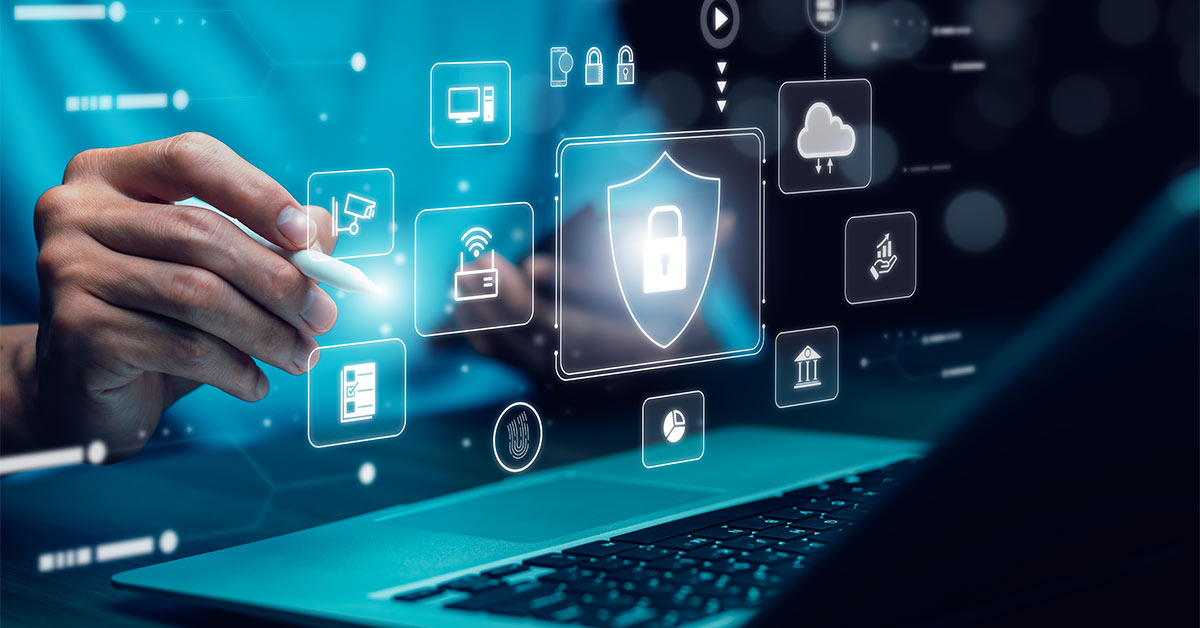
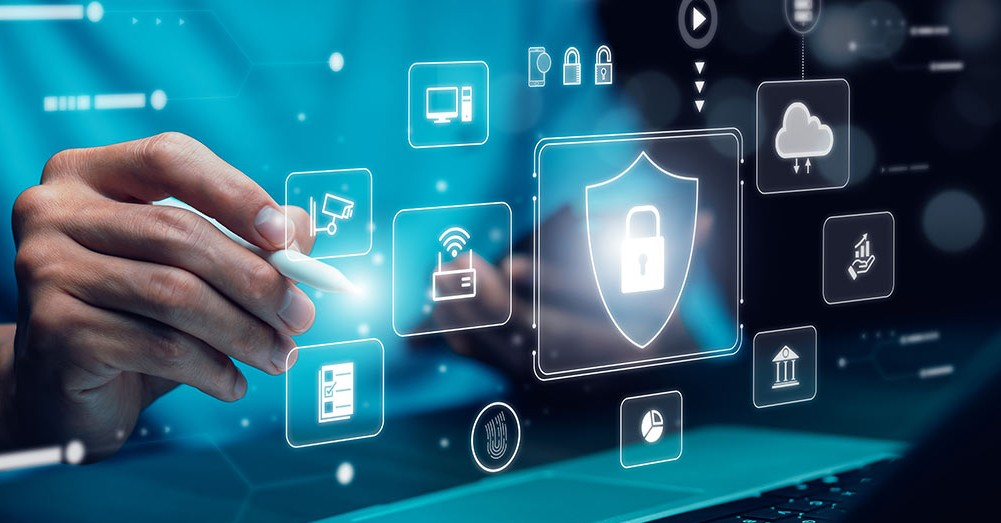
feat: implement Hero section and Contact page with email integration functionality

diff --git a/src/pages/Contact.tsx b/src/pages/Contact.tsx
@@ -3,6 +3,7 @@ import { motion } from "framer-motion";
 import { Navbar } from "@/components/Navbar";
 import { Footer } from "@/components/Footer";
 import { Mail, Phone, MapPin, CheckCircle2, Loader2 } from "lucide-react";
+import { CONTACT_EMAIL_ADDRESS, createContactMailtoUrl } from "@/lib/contact-email";
 
 const services = [
   "Digital Solutions",
@@ -45,38 +46,13 @@ export default function Contact() {
       return;
     }
     setLoading(true);
-    try {
-      const response = await fetch("https://api.web3forms.com/submit", {
-        method: "POST",
-        headers: { "Content-Type": "application/json" },
-        body: JSON.stringify({
-          access_key: "YOUR_WEB3FORMS_ACCESS_KEY",
-          subject: `[NexioGBL] New message from ${form.name}`,
-          from_name: form.name,
-          replyto: form.email,
-          email: form.email,
-          phone: form.phone || "Not provided",
-          country: form.country,
-          service: form.service,
-          message: form.message,
-        }),
-      });
-      const data = await response.json();
-      if (data.success) {
-        setSubmitted(true);
-      } else {
-        setErrors({ form: "Something went wrong. Please try again." });
-      }
-    } catch {
-      setErrors({ form: "Network error. Please try again later." });
-    } finally {
-      setLoading(false);
-    }
+    window.location.href = createContactMailtoUrl(form);
+    setSubmitted(true);
+    setLoading(false);
   };
 
   const inputClass = (field: string) =>
-    `w-full px-4 py-3 rounded-xl border text-sm bg-gray-50 dark:bg-gray-900 focus:outline-none focus:ring-2 focus:ring-primary/40 transition-all ${
-      errors[field] ? "border-red-400" : "border-gray-200 dark:border-gray-800"
+    `w-full px-4 py-3 rounded-xl border text-sm bg-gray-50 dark:bg-gray-900 focus:outline-none focus:ring-2 focus:ring-primary/40 transition-all ${errors[field] ? "border-red-400" : "border-gray-200 dark:border-gray-800"
     }`;
 
   return (
@@ -97,7 +73,7 @@ export default function Contact() {
                 Contact <span className="text-primary">Us</span>
               </h1>
               <p className="text-xl text-muted-foreground leading-relaxed">
-                Ready to transform your business? Let's discuss how we can help you 
+                Ready to transform your business? Let's discuss how we can help you
                 achieve your technology goals.
               </p>
             </motion.div>
@@ -118,11 +94,11 @@ export default function Contact() {
                 <div>
                   <h2 className="text-2xl font-bold mb-6">Get in Touch</h2>
                   <p className="text-muted-foreground leading-relaxed">
-                    Whether you have a project in mind or just want to explore possibilities, 
+                    Whether you have a project in mind or just want to explore possibilities,
                     our team is here to help.
                   </p>
                   <div className="mt-4 flex items-center gap-2.5 bg-primary/10 border border-primary/20 text-primary rounded-xl px-4 py-3 text-sm font-medium">
-                    <svg xmlns="http://www.w3.org/2000/svg" width="18" height="18" viewBox="0 0 24 24" fill="none" stroke="currentColor" strokeWidth="2" strokeLinecap="round" strokeLinejoin="round" className="flex-shrink-0"><circle cx="12" cy="12" r="10"/><polyline points="12 6 12 12 16 14"/></svg>
+                    <svg xmlns="http://www.w3.org/2000/svg" width="18" height="18" viewBox="0 0 24 24" fill="none" stroke="currentColor" strokeWidth="2" strokeLinecap="round" strokeLinejoin="round" className="flex-shrink-0"><circle cx="12" cy="12" r="10" /><polyline points="12 6 12 12 16 14" /></svg>
                     <span>We typically respond within <span className="font-bold">24 hours</span></span>
                   </div>
                 </div>
@@ -133,10 +109,16 @@ export default function Contact() {
                       <Mail size={18} className="text-primary" />
                     </div>
                     <div>
-                      <p className="font-medium text-sm mb-0.5">Email</p>
-                      <p className="text-muted-foreground text-sm">info@nexiogbl.com</p>
+                       <p className="font-medium text-sm mb-0.5">Email</p>
+                       <a
+                         href={`mailto:${CONTACT_EMAIL_ADDRESS}`}
+                         className="text-muted-foreground text-sm hover:text-primary transition-colors"
+                       >
+                         {CONTACT_EMAIL_ADDRESS}
+                       </a>
                     </div>
                   </div>
+
 
                   <div className="flex items-start gap-4">
                     <div className="w-10 h-10 rounded-xl bg-primary/10 flex items-center justify-center flex-shrink-0">
@@ -144,20 +126,12 @@ export default function Contact() {
                     </div>
                     <div>
                       <p className="font-medium text-sm mb-0.5">Phone</p>
-                      <p className="text-muted-foreground text-sm">+94 77 123 4567</p>
+                      <p className="text-muted-foreground text-sm">+94 71 390 0047 / +94 71 493 9193</p>
                     </div>
                   </div>
 
-                  <div className="flex items-start gap-4">
-                    <div className="w-10 h-10 rounded-xl bg-primary/10 flex items-center justify-center flex-shrink-0">
-                      <MapPin size={18} className="text-primary" />
-                    </div>
-                    <div>
-                      <p className="font-medium text-sm mb-0.5">Location</p>
-                      <p className="text-muted-foreground text-sm">Colombo, Sri Lanka</p>
-                      <p className="text-muted-foreground text-sm">Serving clients globally</p>
-                    </div>
-                  </div>
+
+
                 </div>
               </motion.div>
 
@@ -174,9 +148,9 @@ export default function Contact() {
                       <div className="w-16 h-16 rounded-full bg-green-50 dark:bg-green-500/10 flex items-center justify-center mb-5">
                         <CheckCircle2 size={32} className="text-green-500" strokeWidth={1.75} />
                       </div>
-                      <h3 className="text-2xl font-bold mb-3">Message Sent!</h3>
+                      <h3 className="text-2xl font-bold mb-3">Email Draft Ready</h3>
                       <p className="text-muted-foreground text-sm leading-relaxed max-w-sm">
-                        Thank you for reaching out. Our team will be in touch within one business day.
+                        Your email app is opening with the message addressed to {CONTACT_EMAIL_ADDRESS}. Send it to reach our team.
                       </p>
                       <button
                         onClick={() => {
@@ -195,7 +169,7 @@ export default function Contact() {
                         Tell us about your project.
                       </p>
                       <div className="flex items-center gap-2 bg-primary/10 border border-primary/20 text-primary rounded-xl px-4 py-2.5 mb-7 text-sm font-medium">
-                        <svg xmlns="http://www.w3.org/2000/svg" width="16" height="16" viewBox="0 0 24 24" fill="none" stroke="currentColor" strokeWidth="2" strokeLinecap="round" strokeLinejoin="round" className="flex-shrink-0"><circle cx="12" cy="12" r="10"/><polyline points="12 6 12 12 16 14"/></svg>
+                        <svg xmlns="http://www.w3.org/2000/svg" width="16" height="16" viewBox="0 0 24 24" fill="none" stroke="currentColor" strokeWidth="2" strokeLinecap="round" strokeLinejoin="round" className="flex-shrink-0"><circle cx="12" cy="12" r="10" /><polyline points="12 6 12 12 16 14" /></svg>
                         We'll get back to you within <span className="font-bold">24 hours</span>
                       </div>
 

diff --git a/src/components/ContactForm.tsx b/src/components/ContactForm.tsx
@@ -1,6 +1,7 @@
 import { useState } from "react";
 import { motion, AnimatePresence } from "framer-motion";
 import { X, CheckCircle2, Loader2 } from "lucide-react";
+import { CONTACT_EMAIL_ADDRESS, createContactMailtoUrl } from "@/lib/contact-email";
 
 const services = [
   "Digital Solutions",
@@ -48,31 +49,8 @@ export function ContactForm({ open, onClose }: ContactFormProps) {
       return;
     }
     setLoading(true);
-    try {
-      const response = await fetch("https://api.web3forms.com/submit", {
-        method: "POST",
-        headers: { "Content-Type": "application/json" },
-        body: JSON.stringify({
-          access_key: "YOUR_WEB3FORMS_ACCESS_KEY",
-          subject: `[NexioGBL] New message from ${form.name}`,
-          from_name: form.name,
-          replyto: form.email,
-          email: form.email,
-          phone: form.phone || "Not provided",
-          country: form.country,
-          service: form.service,
-          message: form.message,
-        }),
-      });
-      const data = await response.json();
-      if (data.success) {
-        setSubmitted(true);
-      } else {
-        setErrors({ form: "Something went wrong. Please try again." });
-      }
-    } catch {
-      setErrors({ form: "Something went wrong. Please try again." });
-    }
+    window.location.href = createContactMailtoUrl(form);
+    setSubmitted(true);
     setLoading(false);
   };
 
@@ -129,9 +107,9 @@ export function ContactForm({ open, onClose }: ContactFormProps) {
                 <div className="w-16 h-16 rounded-full bg-green-50 dark:bg-green-500/10 flex items-center justify-center mb-5">
                   <CheckCircle2 size={32} className="text-green-500" strokeWidth={1.75} />
                 </div>
-                <h3 className="text-2xl font-bold mb-3">Message Sent</h3>
+                <h3 className="text-2xl font-bold mb-3">Email Draft Ready</h3>
                 <p className="text-muted-foreground text-sm leading-relaxed max-w-sm">
-                  Thank you for reaching out. Our team will be in touch within one business day.
+                  Your email app is opening with the message addressed to {CONTACT_EMAIL_ADDRESS}. Send it to reach our team.
                 </p>
                 <button
                   onClick={handleClose}

diff --git a/src/lib/contact-email.ts b/src/lib/contact-email.ts
@@ -1,0 +1,33 @@
+export const CONTACT_EMAIL_ADDRESS = "nexiogbl@gmail.com";
+
+export interface ContactFormValues {
+  name: string;
+  email: string;
+  country: string;
+  phone: string;
+  service: string;
+  message: string;
+}
+
+export function createContactMailtoUrl({
+  name,
+  email,
+  country,
+  phone,
+  service,
+  message,
+}: ContactFormValues) {
+  const subject = `New message from ${name}`;
+  const body = [
+    `Name: ${name}`,
+    `Email: ${email}`,
+    `Country: ${country}`,
+    `Phone: ${phone || "Not provided"}`,
+    `Service: ${service}`,
+    "",
+    "Message:",
+    message,
+  ].join("\n");
+
+  return `mailto:${CONTACT_EMAIL_ADDRESS}?subject=${encodeURIComponent(subject)}&body=${encodeURIComponent(body)}`;
+}

diff --git a/src/components/Hero.tsx b/src/components/Hero.tsx
@@ -104,9 +104,9 @@ export function Hero() {
             </div>
             <div>
               <div className="flex items-center justify-center h-8 sm:h-9">
-                <Earth size={26} className="text-sky-400" />
+                <div className="text-2xl sm:text-3xl font-extrabold text-white tracking-tight">Global</div>
               </div>
-              <div className="text-xs sm:text-sm text-blue-200/60 font-medium mt-0.5">Global Delivery</div>
+              <div className="text-xs sm:text-sm text-blue-200/60 font-medium mt-0.5">Delivery</div>
             </div>
             <div className="col-span-2 sm:col-span-1">
               <div className="text-2xl sm:text-3xl font-extrabold text-white tracking-tight">24/7</div>
